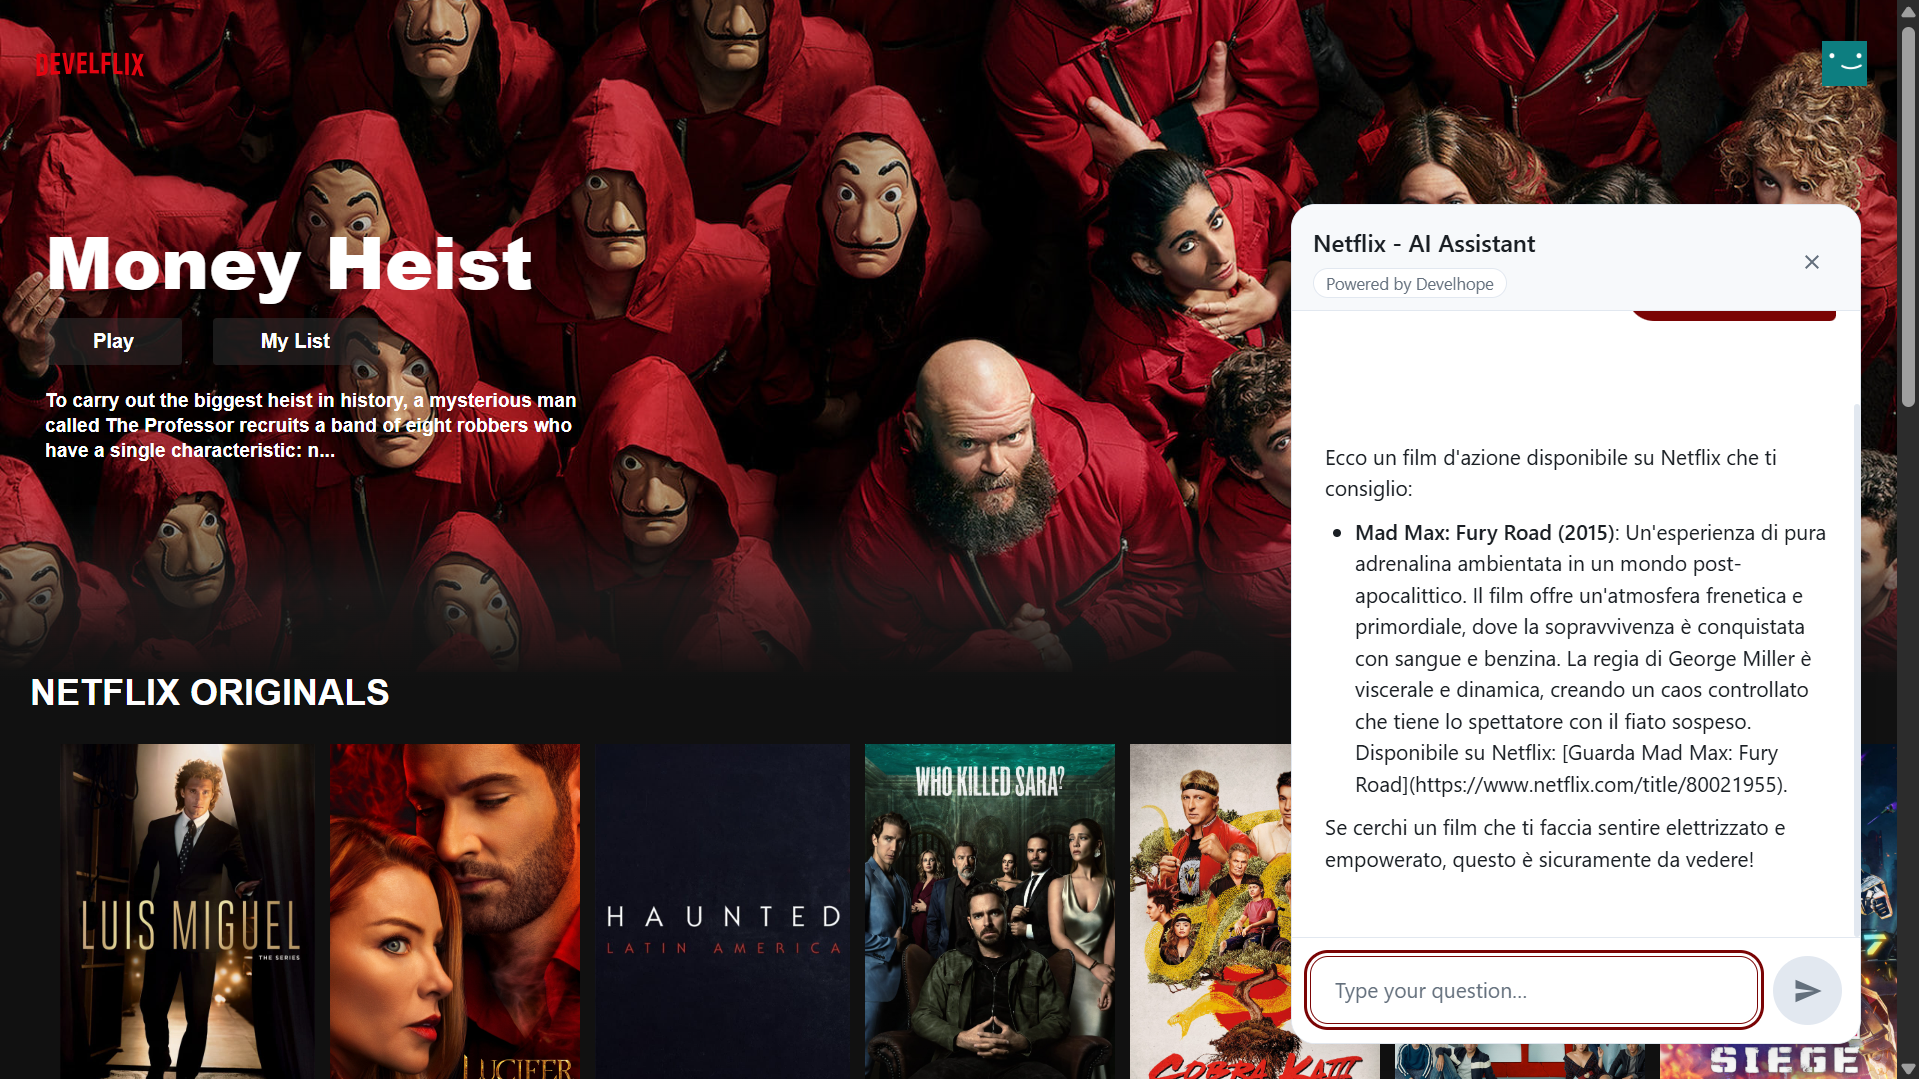
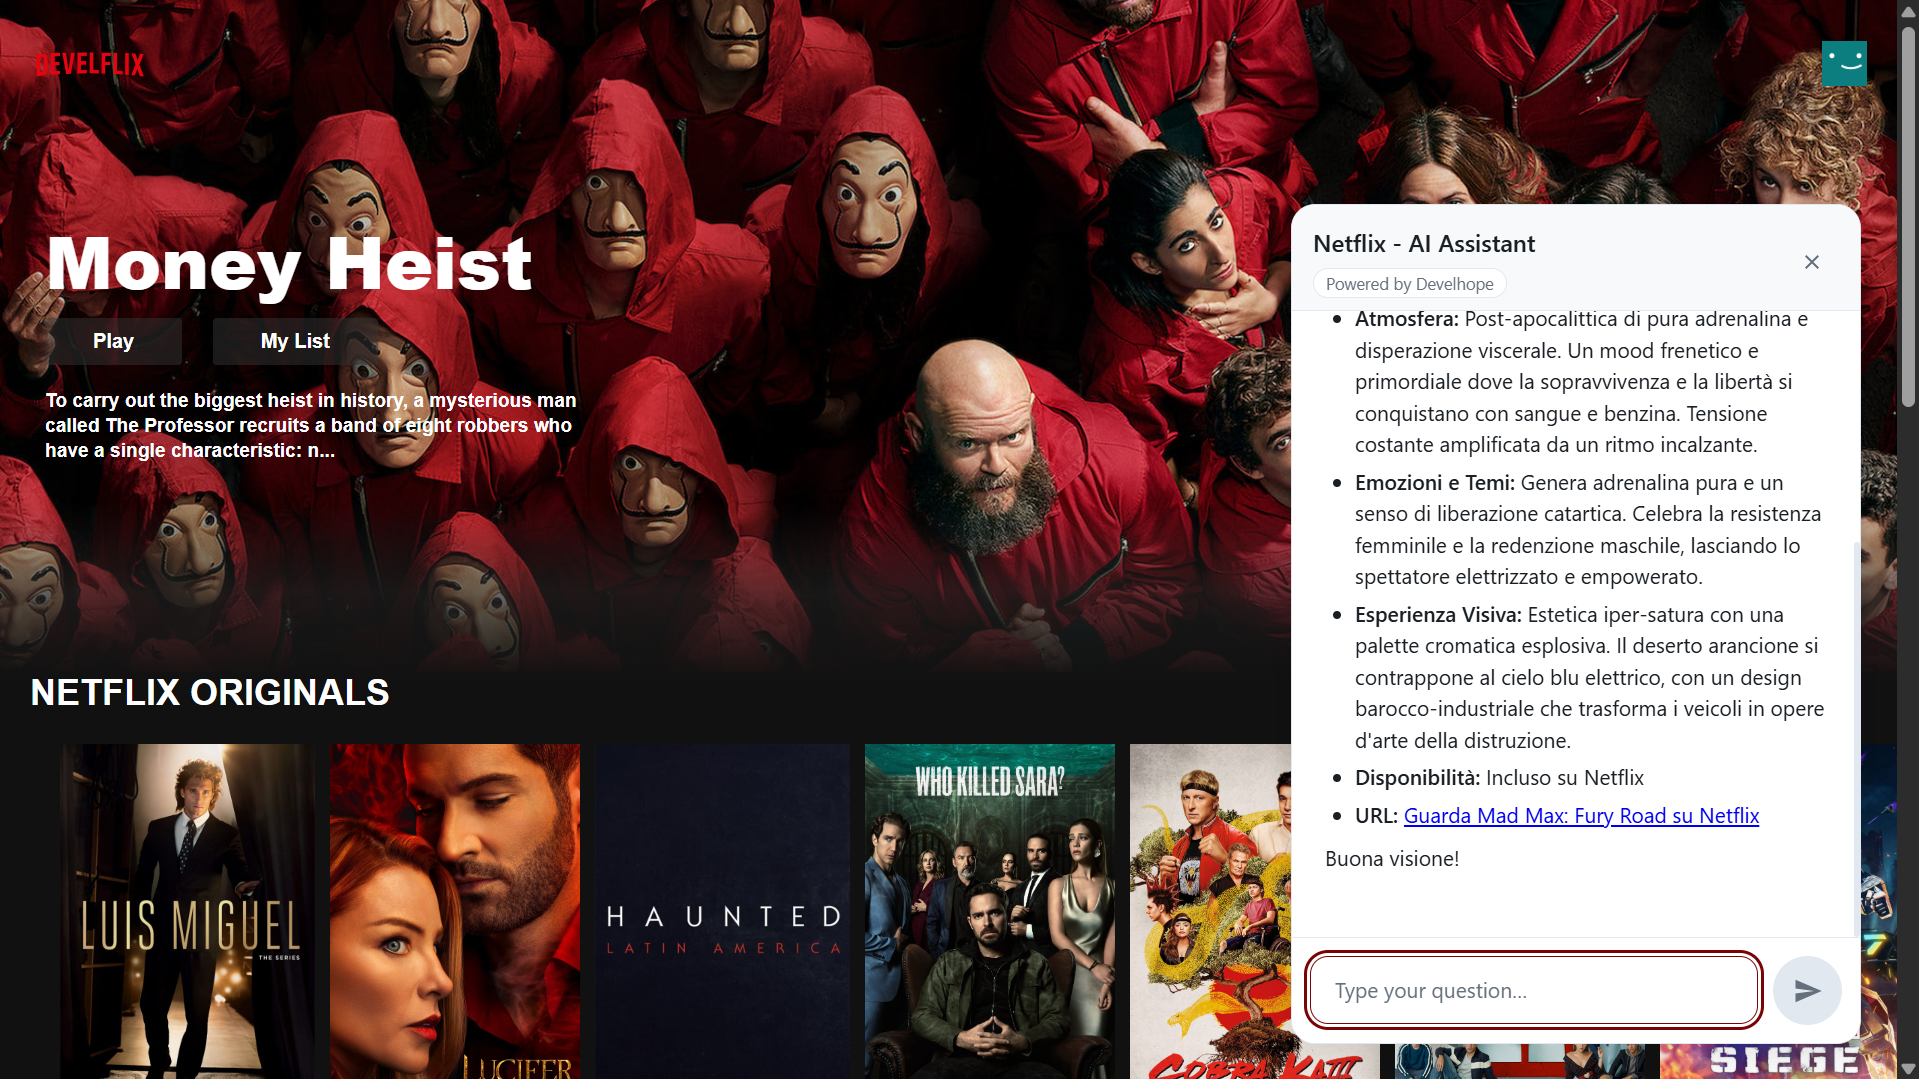
README

Changed region(s): [[0.6764, 0.2753, 0.9838, 0.8258]]

diff --git a/frontend/chat-widget.js b/frontend/chat-widget.js
@@ -149,6 +149,9 @@ document.addEventListener("DOMContentLoaded", () => {
         html = html.replace(/^:\d+\s+(.+)$/gm, '<li>$1</li>');
         html = html.replace(/^:-\s+(.+)$/gm, '<li>$1</li>');
         
+        // Links (must be before text formatting to avoid conflicts)
+        html = html.replace(/\[([^\]]+)\]\(([^)]+)\)/g, '<a href="$2" target="_blank" rel="noopener noreferrer">$1</a>');
+        
         // Text formatting
         html = html.replace(/\*\*(.+?)\*\*/g, '<strong>$1</strong>');
         html = html.replace(/\*(.+?)\*/g, '<em>$1</em>');

diff --git a/README.md b/README.md
@@ -10,11 +10,27 @@ Un chatbot intelligente per la scoperta di film Netflix, sviluppato con LangChai
 - **Interfaccia Moderna**: Chat widget responsive con design Netflix-style
 - **Memory Conversazionale**: Mantiene il contesto delle conversazioni per personalizzazione
 
+## 📱 Interfaccia Utente
+
+### Schermate del Sistema
+
+#### 1. Widget Chiuso
+![Widget Chiuso](assets/widget.png)
+*Il widget Netflix-style posizionato in basso a destra quando non è attivo*
+
+#### 2. Widget Aperto - Attesa
+![Widget Aperto](assets/open_chat.png)
+*Il widget espanso che mostra il messaggio di attesa durante l'elaborazione*
+
+#### 3. Widget con Risposta
+![Widget con Risposta](assets/response.png)
+*Il widget che mostra la risposta formattata dell'AI con raccomandazioni e link Netflix*
+
 ## 🏗 Architettura Tecnica
 
 ### Backend
 - **LangChain Agent**: Orchestratore principale con 3 tools specializzati
-- **Vector Database**: FAISS per ricerca semantica su film e conversazioni utenti
+- **Vector Database**: ChromaDB per ricerca semantica su film e conversazioni utenti
 - **WebSocket**: Comunicazione real-time tra frontend e backend
 - **FastAPI**: Framework web moderno per API REST e WebSocket
 
@@ -160,14 +176,14 @@ EDU-Agentic-Application/
 - Assicurati che il WebSocket sia accessibile
 
 **Errori di memoria:**
-- Il sistema usa FAISS in-memory, riavvia il backend se necessario
+- Il sistema usa ChromaDB con persistenza su disco, riavvia il backend se necessario
 - Controlla i log per errori di vector store
 
 ## 📊 Performance
 
 - **Latenza**: < 2 secondi per risposta tipica
 - **Concorrenza**: Supporta multiple sessioni simultanee
-- **Memoria**: ~200MB per il vector store in memoria
+- **Memoria**: ChromaDB con persistenza su disco per storage efficiente
 - **Scalabilità**: Architettura modulare per espansioni future
 
 ## 🤝 Contributi

diff --git a/APP Design.md b/APP Design.md
@@ -29,7 +29,7 @@ Chatbot intelligente per la scoperta di film su Netflix attraverso conversazioni
 │  💾 DATA LAYER                                                 │
 │    ├── 🎞 Films Vector Store (53 movies, rich descriptions)    │
 │    ├── 👥 Users Vector Store (conversation history)            │
-│    └── 📊 Chroma Database (FAISS-like, persistent)             │
+│    └── 📊 Chroma Database (persistent vector storage)         │
 └─────────────────────────────────────────────────────────────────┘
 ```
 
@@ -278,7 +278,7 @@ User: "Qualcosa come i film che mi sono piaciuti"
 - **Safe Descriptions:** Focus su mood invece che eventi specifici
 
 ### **Performance Optimizations**
-- **Vector Store Persistence:** Chroma disk storage
+- **Vector Store Persistence:** ChromaDB disk storage con persistenza automatica
 - **Parallel Tool Execution:** RunnableParallel per web research
 - **Memory Management:** Window-based conversation history
 - **Connection Pooling:** WebSocket persistenti
@@ -311,7 +311,7 @@ User: "Qualcosa come i film che mi sono piaciuti"
 - ✅ API key validation
 
 ### **Scalability Considerations**
-- **Vector Store:** Chroma supporta scaling horizontale
+- **Vector Store:** ChromaDB supporta scaling horizontale e distribuito
 - **Memory Management:** Session-based isolation
 - **Tool Architecture:** Plugin-ready per nuovi data sources
 - **LLM Abstraction:** Provider-agnostic implementation
